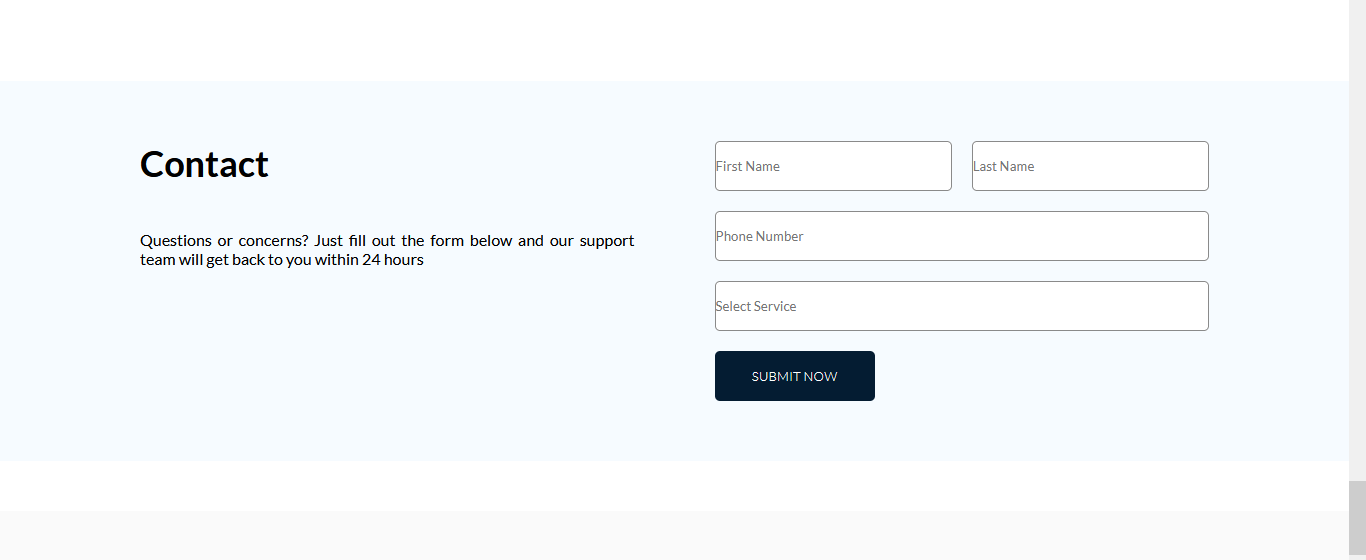
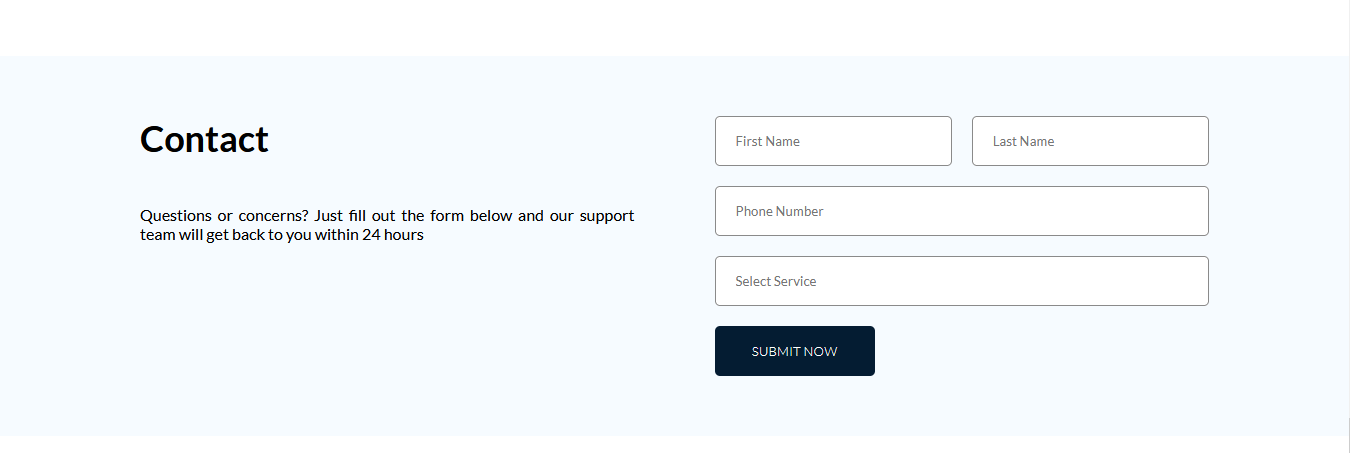
revisi Contact

diff --git a/styles/responsive.css b/styles/responsive.css
@@ -144,6 +144,7 @@
   }
   .contact .text {
     height: 43px;
+    padding: 15px;
   }
   .text-box-in {
     display: flex;
@@ -217,6 +218,7 @@
 
   .contact .text {
     height: 35px;
+    padding: 10px;
   }
   .contact .width-text-1 {
     width: 100%;

diff --git a/styles/style.css b/styles/style.css
@@ -806,6 +806,7 @@ button {
   height: 50px;
   border: 1px solid #8a8a8a;
   border-radius: 5px;
+  padding: 20px;
 }
 .width-text-1 {
   width: 48%;
